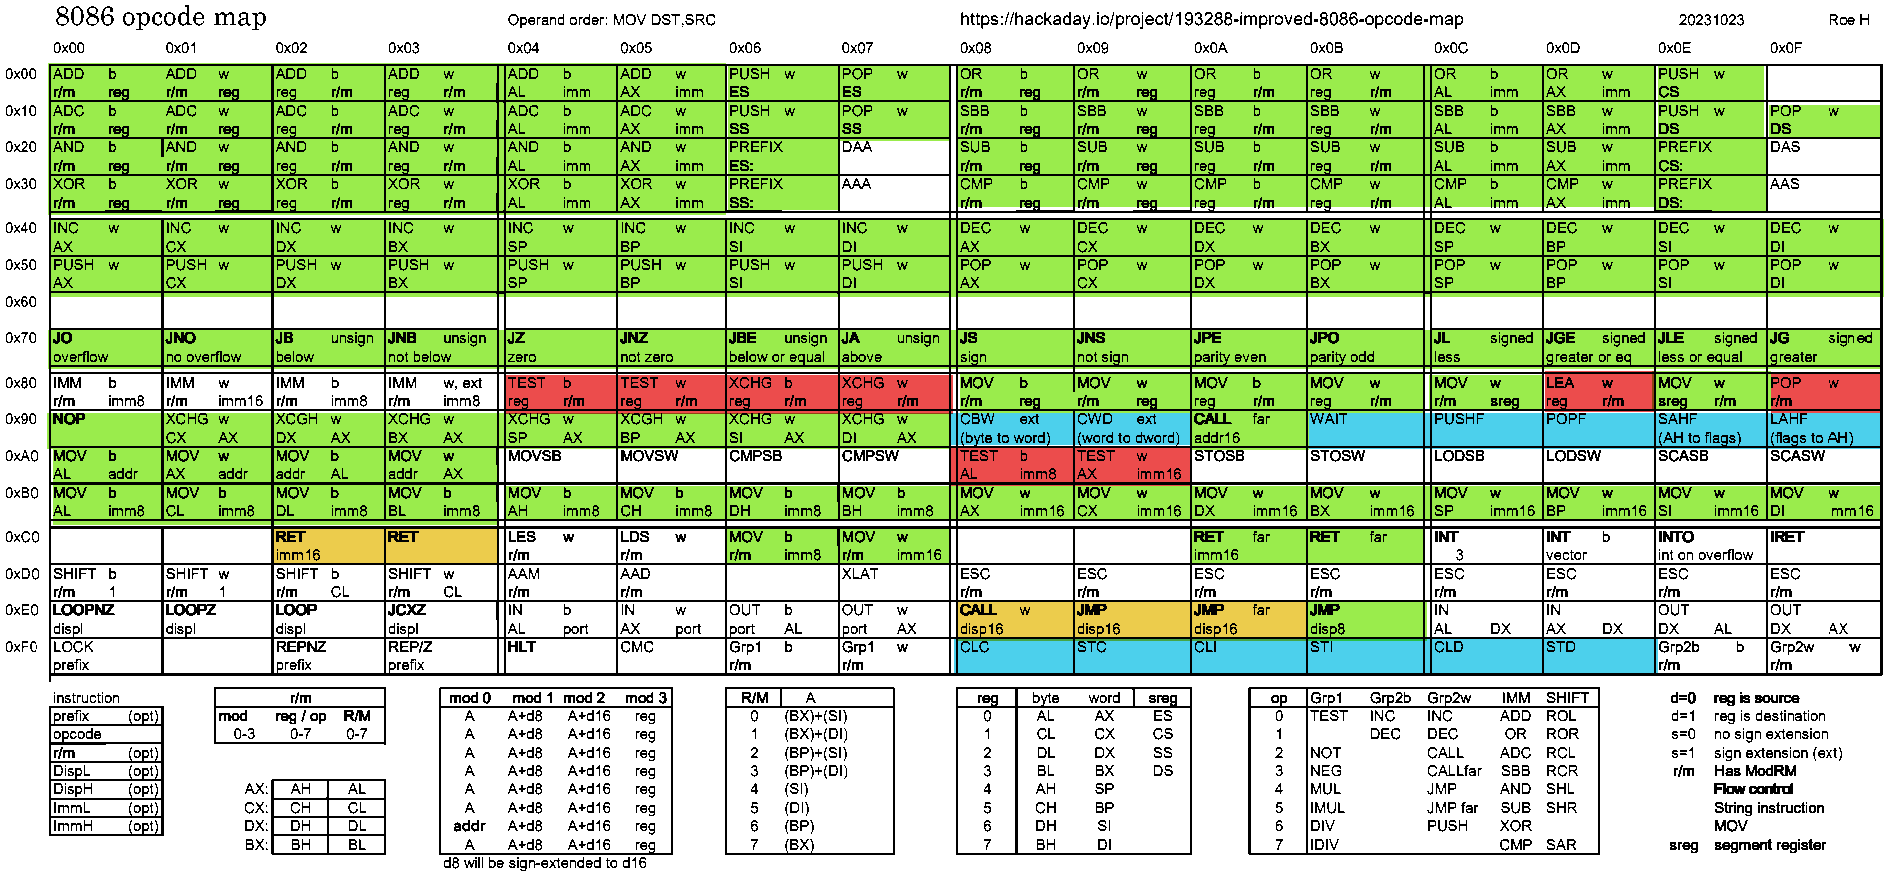
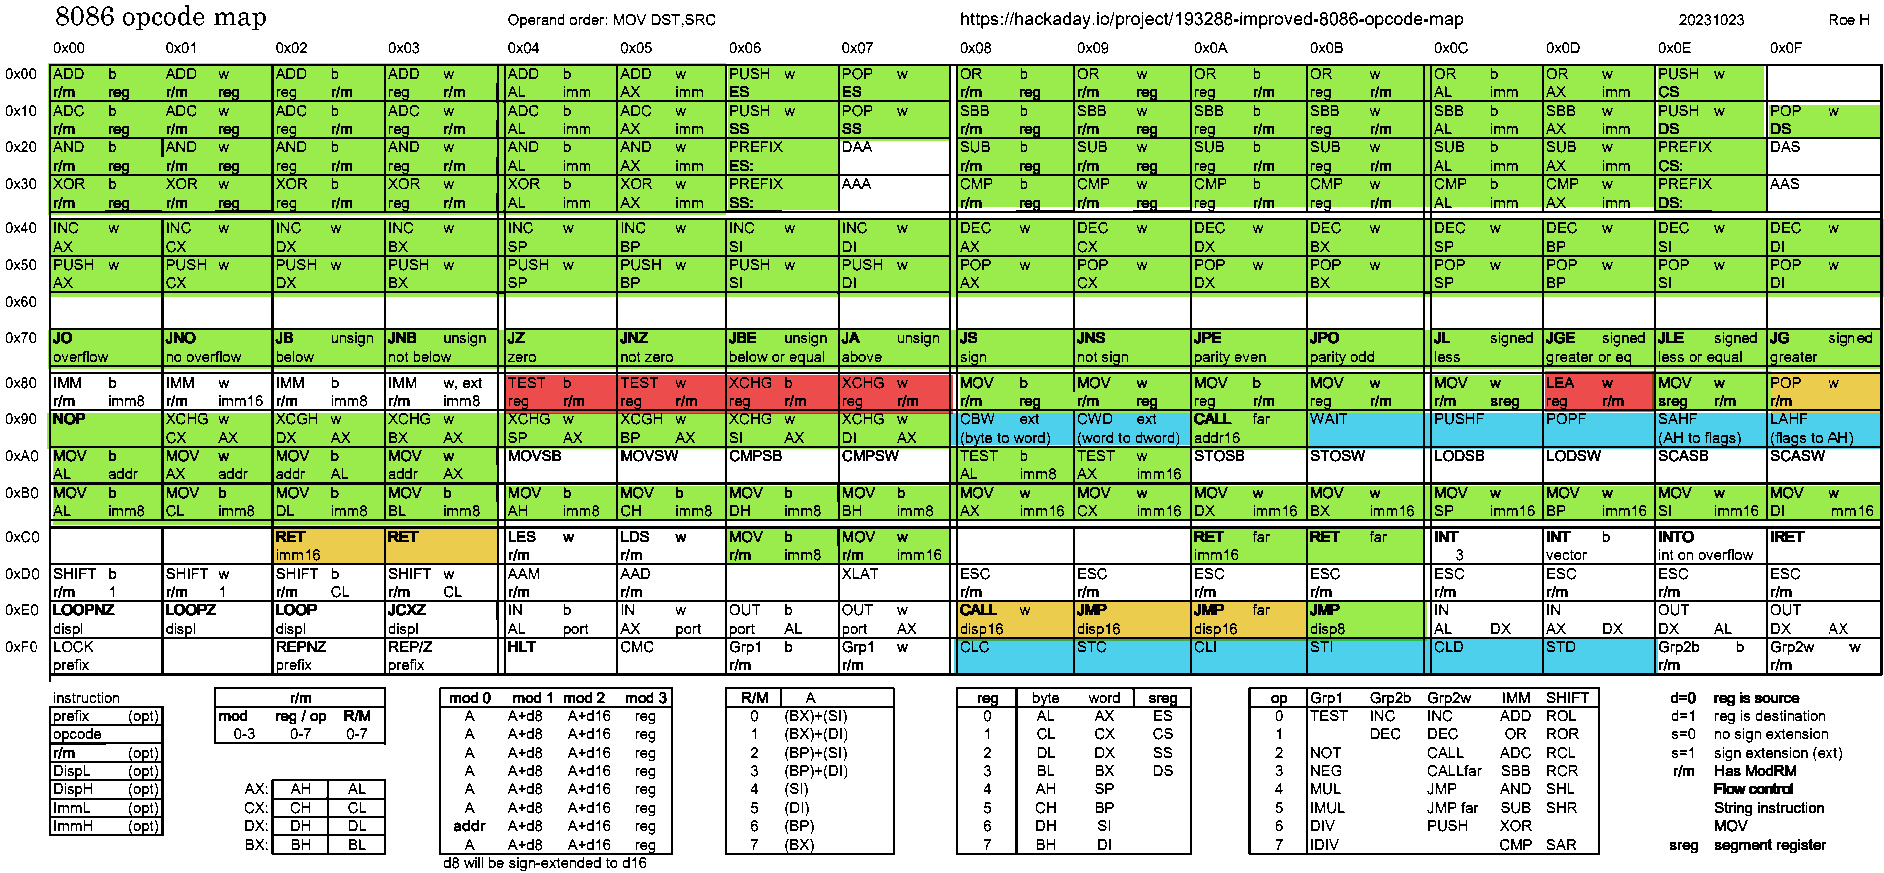
Added some stuff

Changed region(s): [[0.4926, 0.4948, 0.6465, 0.5567], [0.9236, 0.4021, 1.0, 0.4948]]

diff --git a/tinyvm/sand/cpu8086.c b/tinyvm/sand/cpu8086.c
@@ -46,8 +46,10 @@ int reset_cpu8086(cpu8086_t* cpu, mem_t* mem) {
 }
 
 /**
- * Returns a segment register pointer from CPU, and takes segment prefixes into account via CPU->seg.
- * DEFS must be REG8086_*, it's the default segment regregister returned, unless CPU->seg was set due to prefixing.
+ * @brief Get a default segment register unless prefixed otherwise.
+ * @param cpu 
+ * @param defs must be REG8086_*, it's the default segment regregister returned, unless CPU->seg was set due to prefixing.
+ * @return a segment register pointer from CPU, and takes segment prefixes into account via CPU->seg.
  */
 static reg8086_t* get_seg(cpu8086_t* cpu, const int defs) {
   if (cpu->seg != REG8086_NULL) {
@@ -56,11 +58,14 @@ static reg8086_t* get_seg(cpu8086_t* cpu, const int defs) {
   return cpu->regs + defs;
 }
 
-/*
-  SAFE 1MB ACCESS. Joins 2 immidiete values into a segmented 20-bit address.
-  The rest of the 12 bits returned will be 0, to avoid potential buffer overflow.
-  May set CPU->e to E8086_ACCESS_VIOLATION if we go out of 1MB bounds.
-*/
+/**
+ * @brief Safe 1MB access. Joins reg:SEG into an address.
+ * @param cpu 
+ * @param reg 
+ * @param seg 
+ * @return REG:SEG
+ * @warning May set CPU->e to E8086_ACCESS_VIOLATION if we go out of 1MB bounds.
+ */
 static uint32_t regseg_imm(cpu8086_t* cpu, const uint16_t reg, const uint16_t seg) {
   uint32_t ret = reg + (seg << 4);
   if (0xFFF00000 & ret) {
@@ -69,10 +74,10 @@ static uint32_t regseg_imm(cpu8086_t* cpu, const uint16_t reg, const uint16_t se
   }
   return ret;
 }
-/*
-  SAFE 1MB ACCESS.
-  Equivalent of regseg_imm() but for actual regs. REG and SEG are the REG8086_* enum.
-*/
+/**
+ * Safe 1MB access.
+ * regseg_imm() but for REG8086_*
+ */
 static uint32_t regseg(cpu8086_t* cpu, const int reg, const int seg) {
   return regseg_imm(cpu, cpu->regs[reg].x, cpu->regs[seg].x);
 }
@@ -80,6 +85,10 @@ static uint32_t regseg(cpu8086_t* cpu, const int reg, const int seg) {
   Allows reg/seg > 1MB, but it's ok. Adds ADDR to the REG+SEG in a way that prevents overflow.
   E.G if ADDR=1, REG=0xFFFF then we need to do *SEG+=0x10000 and REG=0
 */
+/**
+ * Allows SEG:REG > 1MB, always index with 1MB safe functions.
+ * 
+ */
 static void regseg_add(reg8086_t* reg, reg8086_t* seg, const uint16_t addr) {
   if ((uint32_t)reg->x + addr > 0xFFFF) {
     reg->x = (0x0000 + addr) - 1;
@@ -464,28 +473,30 @@ static void* get_modrm_seg(cpu8086_t* cpu, uint8_t modrm) {
   }
 }
 
-/**
-  * Safe 1MB access.
-  * CPU->ip_cs is expected to be at the first byte, not modrm.
-  * MODRM is the modr/m byte.
-  * W_BIT indicates if it's a word operation, and hence the size of the data in the pointer.
-  * Returns a pointer to what the R/M points to, e.g address in CPU->mem, or a register.
+/*
+  * Analyzes MODRM(the modr/m byte)+W_BIT as if MOD=3, meaning it's literally a reg field again.
 */
-static void* get_modrm_rm(cpu8086_t* cpu, uint8_t modrm, uint8_t w_bit) {
-  void* rm;
-  uint32_t addr;
+static void* get_modrm_rm_reg(cpu8086_t* cpu, uint8_t modrm, uint8_t w_bit) {
+  return get_modrm_reg(cpu, modrm << 3, w_bit);
+}
 
+/*
+  * Can return unsafe address, always use safe safe indexing functions.
+  * Analyzes MODRM(the modr/m byte) and returns a full 32 but address if R/M part represents an address.
+  * If address returned is UINT32_MAX then MOD=3, in which case you need get_modrm_rm_reg(cpu, mod_rm, w_bit).
+*/
+static uint32_t get_modrm_rm_addr(cpu8086_t* cpu, uint8_t modrm) {
   /* R/M is REG, MOD=3, so just shift by 3 to put RM in REG and return. */
   if ((modrm & MODRM_MOD_MASK) == MOD_RM_IS_REG) {
-    rm = get_modrm_reg(cpu, modrm << 3, w_bit);
-    return rm;
+    return UINT32_MAX;
   }
   /* Direct addressing, MOD=0,R/M=6 */
   else if ((modrm & MODRM_MOD_MASK) == MOD_NDISP && (modrm & MODRM_RM_MASK) == RM_BP) {
-    addr = regseg_imm(cpu, get16(cpu, cpu->ip_cs + 2), cpu->regs[REG8086_DS].x);
+    return regseg_imm(cpu, get16(cpu, cpu->ip_cs + 2), cpu->regs[REG8086_DS].x);
   }
   /* Using various register-displacement combinations depending on MOD+R/M */
   else {
+    uint32_t addr;
     /* Add the register stuff */
     switch (modrm & MODRM_RM_MASK) {
       case RM_BX_SI:
@@ -526,18 +537,39 @@ static void* get_modrm_rm(cpu8086_t* cpu, uint8_t modrm, uint8_t w_bit) {
       default:
       break;
     }
+
+    return addr;
+  }
+}
+
+/**
+  * Safe 1MB access.
+  * CPU->ip_cs is expected to be at the first byte, not modrm.
+  * MODRM is the modr/m byte.
+  * W_BIT indicates if it's a word operation, and hence the size of the data in the pointer.
+  * Returns a pointer to what the R/M points to, e.g address in CPU->mem, or a register.
+*/
+static void* get_modrm_rm(cpu8086_t* cpu, uint8_t modrm, uint8_t w_bit) {
+  uint32_t addr = get_modrm_rm_addr(cpu, modrm);
+
+  /* It's a REG field. */
+  if (addr == UINT32_MAX) {
+    return get_modrm_rm_reg(cpu, modrm, w_bit);
   }
 
   if (w_bit) {
-    rm = get16_ptr(cpu, addr, REG8086_DS);
+    return get16_ptr(cpu, addr, REG8086_DS);
   }
   else {
-    rm = get8_ptr(cpu, addr, REG8086_DS);
+    return get8_ptr(cpu, addr, REG8086_DS);
   }
-
-  return rm;
 }
 
+/**
+ * @warning Includes the opcode byte in the result.
+ * @param modrm The MODR/M byte
+ * @return What cpu8086_t.ip_add should be given a MODR/M byte.
+ */
 static uint8_t get_modrm_ip_add(uint8_t modrm) {
   switch (modrm & MODRM_MOD_MASK) {
     case MOD_DISP16:
@@ -718,6 +750,13 @@ int cycle_cpu8086(cpu8086_t* cpu) {
     cpu->cycles += 8;
     cpu->ip_add = 1;
   }
+  /* POP R/M in 16 bit mode */
+  else if (opcode == 0x8F) {
+    uint8_t modrm = get8(cpu, cpu->ip_cs + 1);
+    uint16_t* rm = get_modrm_rm(cpu, modrm, 1);
+    *rm = pop16(cpu);
+    cpu->ip_add = get_modrm_ip_add(modrm);
+  }
   /* POP ES */
   else if (opcode == 0x07) {
     POP_SEG(cpu, REG8086_ES);
@@ -793,6 +832,13 @@ int cycle_cpu8086(cpu8086_t* cpu) {
     cpu->regs[reg].x = cpu->regs[REG8086_AX].x;
     cpu->regs[REG8086_AX].x = tmp;
   }
+  /* XCHG R16, AX */
+  else if (opcode >= 0x91 && opcode <= 0x97) {
+    uint8_t reg = opcode & 7; /* Wont be AX */
+    uint16_t tmp = cpu->regs[reg].x;
+    cpu->regs[reg].x = cpu->regs[REG8086_AX].x;
+    cpu->regs[REG8086_AX].x = tmp;
+  }
   /* ??? MODR/M or ??? AL/AX, IMM8/16 section */
   /* ADD */
   else if (/* opcode >= 0x00 && */ opcode <= 0x05) {
@@ -826,6 +872,16 @@ int cycle_cpu8086(cpu8086_t* cpu) {
   /* CMP */
   else if (opcode >= 0x38 && opcode <= 0x3D) {
     VOID_INS_DSTSRC_0030(cpu, opcode, cmp_ins);
+  }
+  /* TEST AL, IMM8 */
+  else if (opcode == 0xA8) {
+    test_ins(cpu, cpu->regs[REG8086_AX].p[0], get8(cpu, cpu->ip_cs + 1), 0);
+    cpu->ip_add = 2;
+  }
+  /* TEST AX, IMM16 */
+  else if (opcode == 0xA8) {
+    test_ins(cpu, cpu->regs[REG8086_AX].x, get16(cpu, cpu->ip_cs + 1), 1);
+    cpu->ip_add = 3;
   }
   /* Various conditional jumps, relative to current instruction. */
   else if (opcode >= 0x70 && opcode <= 0x7F) {
@@ -935,7 +991,7 @@ int cycle_cpu8086(cpu8086_t* cpu) {
     }
     cpu->cycles += 1;
   }
-
+  
   REGSEG_IP_CS_ADD(cpu, cpu->ip_add);
   return cpu->e != E8086_OK;
 }
